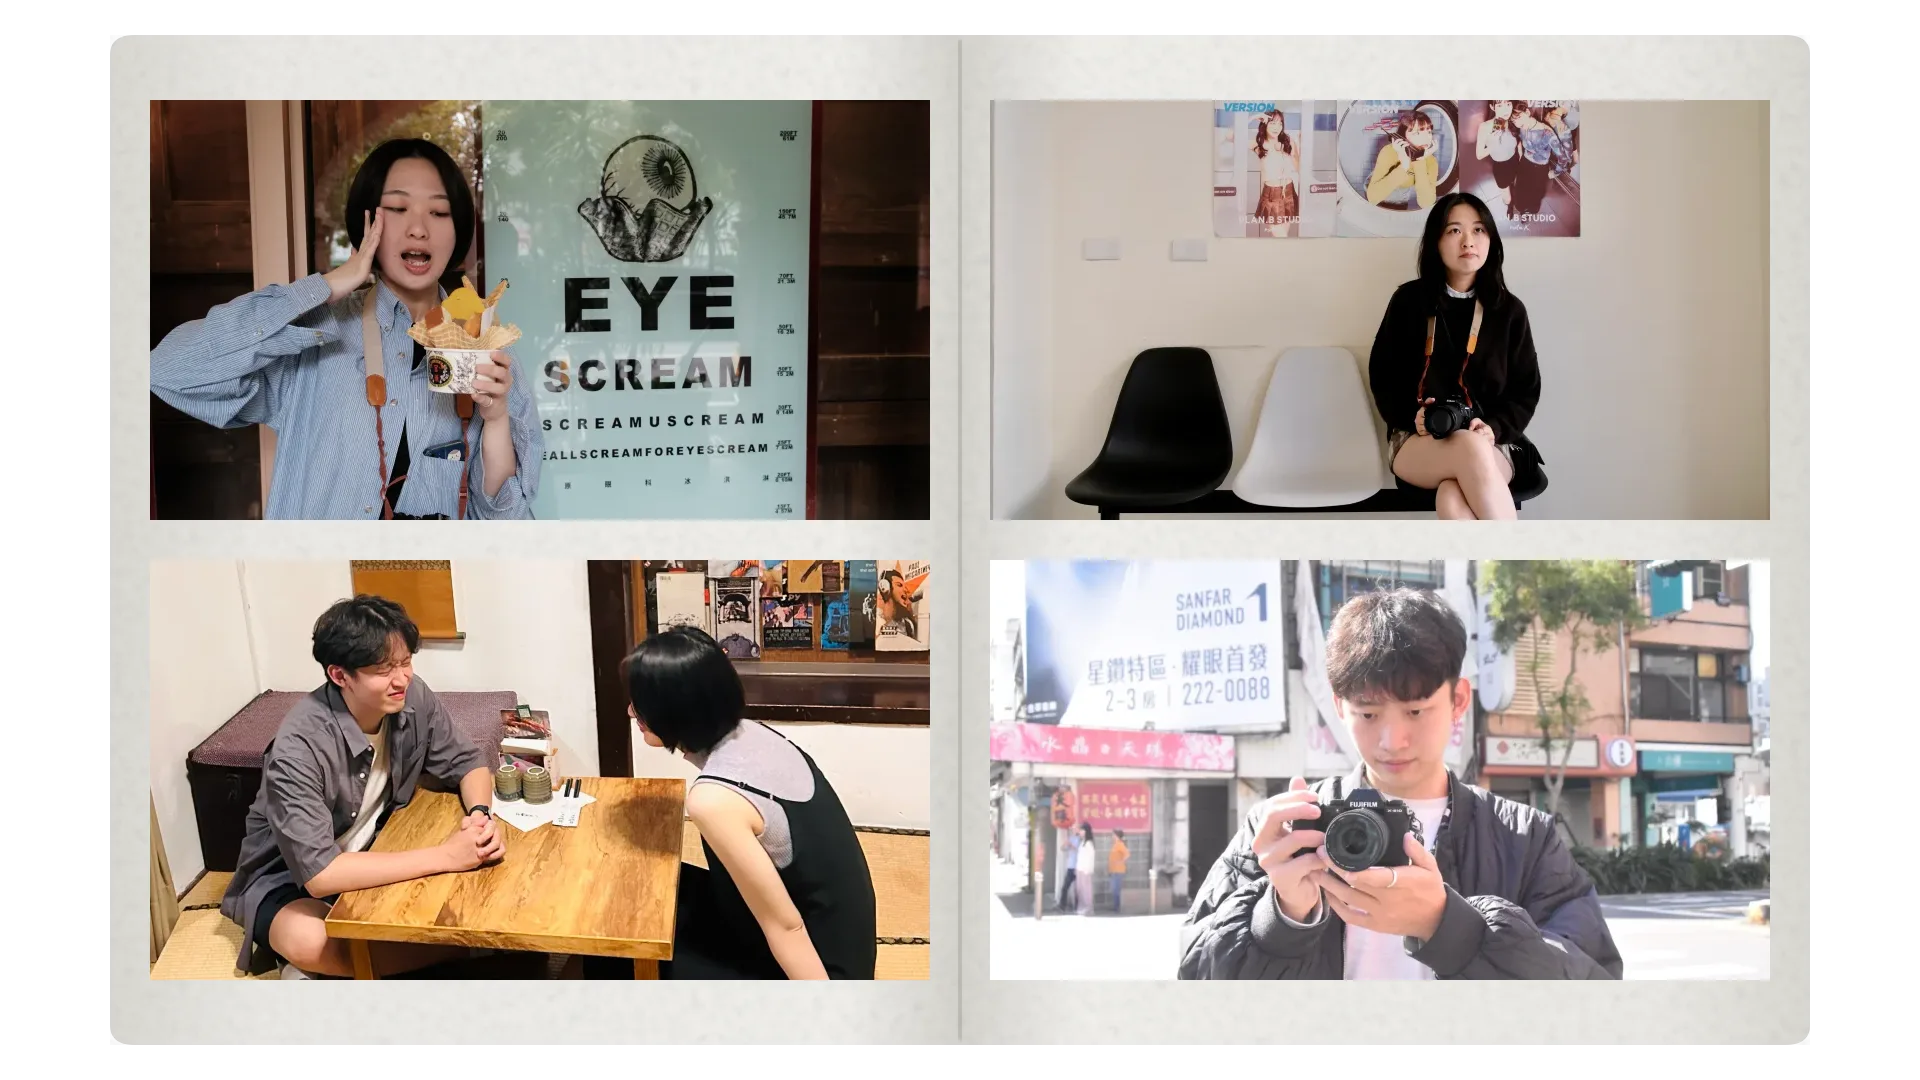
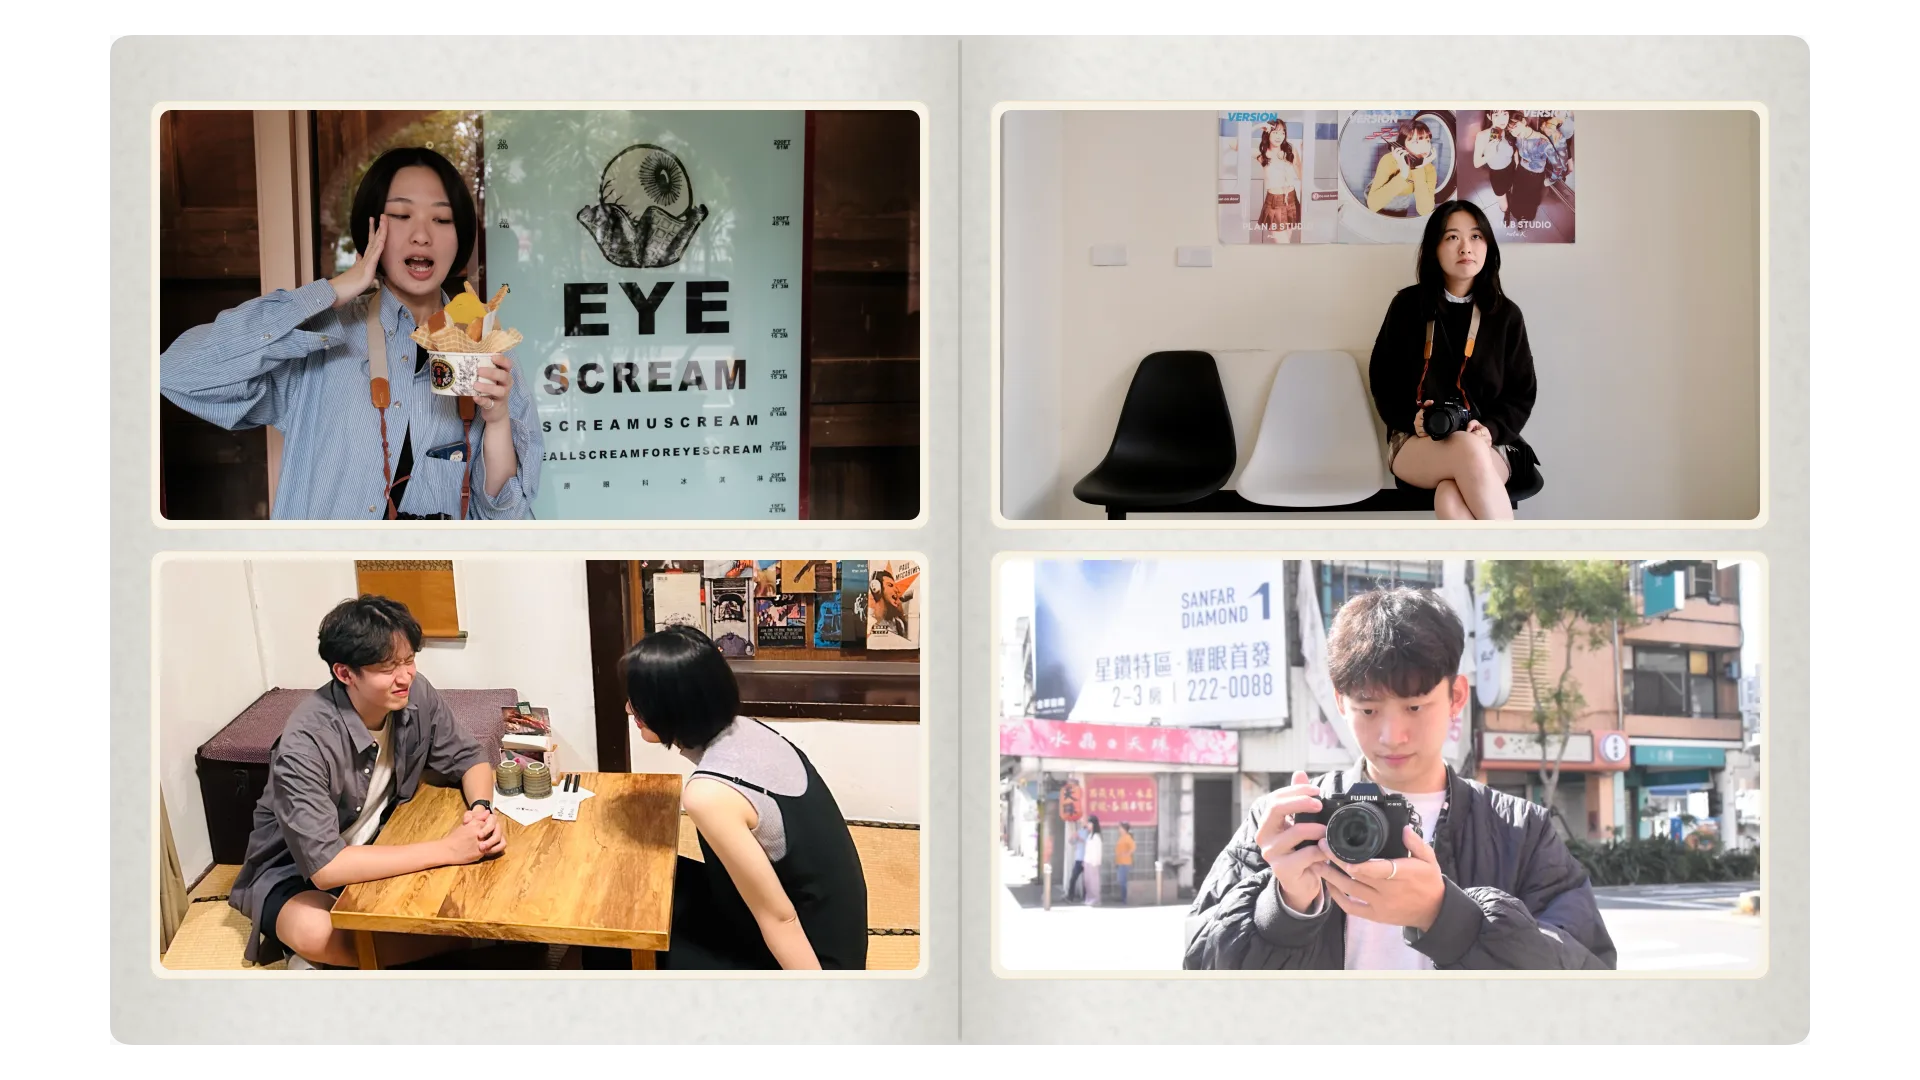
feat(photo-book): add slim cream print borders
Render each photo with a tight rounded cream edge and keep collage slots evenly sized.

diff --git a/scripts/generate-photo-book-assets.ts b/scripts/generate-photo-book-assets.ts
@@ -29,13 +29,13 @@ const layouts: Record<PhotoBookTemplate, Slot[]> = {
 		{ left: 150, top: 100, width: 780, height: 880 },
 		{ left: 990, top: 100, width: 370, height: 430 },
 		{ left: 1400, top: 100, width: 370, height: 430 },
-		{ left: 990, top: 570, width: 780, height: 410 }
+		{ left: 990, top: 550, width: 780, height: 430 }
 	],
 	balanced: [
-		{ left: 150, top: 100, width: 780, height: 420 },
-		{ left: 150, top: 560, width: 780, height: 420 },
-		{ left: 990, top: 100, width: 780, height: 420 },
-		{ left: 990, top: 560, width: 780, height: 420 }
+		{ left: 150, top: 100, width: 780, height: 430 },
+		{ left: 150, top: 550, width: 780, height: 430 },
+		{ left: 990, top: 100, width: 780, height: 430 },
+		{ left: 990, top: 550, width: 780, height: 430 }
 	],
 	single: [{ left: 150, top: 100, width: 1620, height: 880, fit: 'contain' }],
 	pair: [
@@ -44,11 +44,91 @@ const layouts: Record<PhotoBookTemplate, Slot[]> = {
 	],
 	trio: [
 		{ left: 150, top: 100, width: 780, height: 880 },
-		{ left: 990, top: 100, width: 780, height: 420 },
-		{ left: 990, top: 560, width: 780, height: 420 }
+		{ left: 990, top: 100, width: 780, height: 430 },
+		{ left: 990, top: 550, width: 780, height: 430 }
 	],
 	'final-portrait': [{ left: 150, top: 100, width: 1620, height: 880, fit: 'contain' }]
 };
+
+// ~4px on the 700px homepage book (1920 canvas).
+const photoCornerRadius = 11;
+const photoBorder = 10;
+
+function containedSize(
+	sourceWidth: number,
+	sourceHeight: number,
+	slotWidth: number,
+	slotHeight: number
+) {
+	const scale = Math.min(slotWidth / sourceWidth, slotHeight / sourceHeight);
+	return {
+		width: Math.max(1, Math.round(sourceWidth * scale)),
+		height: Math.max(1, Math.round(sourceHeight * scale))
+	};
+}
+
+function svgBuffer(markup: string) {
+	return Buffer.from(markup);
+}
+
+function roundedRectMask(width: number, height: number, radius: number) {
+	const safeRadius = Math.min(radius, Math.floor(Math.min(width, height) / 2));
+	return svgBuffer(
+		`<svg width="${width}" height="${height}" xmlns="http://www.w3.org/2000/svg"><rect width="${width}" height="${height}" rx="${safeRadius}" ry="${safeRadius}"/></svg>`
+	);
+}
+
+async function renderPhotoBuffer(sourcePath: string, width: number, height: number) {
+	return sharp(sourcePath)
+		.rotate()
+		.resize(width, height, { fit: 'cover', position: 'centre' })
+		.ensureAlpha()
+		.composite([{ input: roundedRectMask(width, height, photoCornerRadius), blend: 'dest-in' }])
+		.png()
+		.toBuffer();
+}
+
+async function mountPrint(photo: Buffer, photoWidth: number, photoHeight: number) {
+	const frameWidth = photoWidth + photoBorder * 2;
+	const frameHeight = photoHeight + photoBorder * 2;
+	const frameRadius = photoCornerRadius + 3;
+
+	const mat = svgBuffer(`
+		<svg width="${frameWidth}" height="${frameHeight}" xmlns="http://www.w3.org/2000/svg">
+			<rect width="${frameWidth}" height="${frameHeight}" rx="${frameRadius}" fill="#f7f2e6"/>
+			<rect x="0.75" y="0.75" width="${frameWidth - 1.5}" height="${frameHeight - 1.5}" rx="${frameRadius - 0.5}" fill="none" stroke="#e4d8c0" stroke-width="1.2"/>
+		</svg>
+	`);
+
+	return sharp(mat)
+		.composite([{ input: photo, left: photoBorder, top: photoBorder }])
+		.png()
+		.toBuffer();
+}
+
+async function renderPhoto(source: string, slot: Slot) {
+	const sourcePath = path.join(staticDirectory, source.replace(/^\//, ''));
+	await fs.access(sourcePath);
+
+	const metadata = await sharp(sourcePath).rotate().metadata();
+	const fit = slot.fit ?? 'cover';
+	const maxWidth = slot.width - photoBorder * 2;
+	const maxHeight = slot.height - photoBorder * 2;
+	const sourceWidth = metadata.width ?? maxWidth;
+	const sourceHeight = metadata.height ?? maxHeight;
+	const size =
+		fit === 'contain'
+			? containedSize(sourceWidth, sourceHeight, maxWidth, maxHeight)
+			: { width: maxWidth, height: maxHeight };
+
+	const photo = await renderPhotoBuffer(sourcePath, size.width, size.height);
+	const print = await mountPrint(photo, size.width, size.height);
+	return {
+		input: print,
+		left: slot.left + Math.round((slot.width - size.width - photoBorder * 2) / 2),
+		top: slot.top + Math.round((slot.height - size.height - photoBorder * 2) / 2)
+	};
+}
 
 const paper = Buffer.from(`
 	<svg width="${PHOTO_BOOK_WIDTH}" height="${PHOTO_BOOK_HEIGHT}" viewBox="0 0 ${PHOTO_BOOK_WIDTH} ${PHOTO_BOOK_HEIGHT}" xmlns="http://www.w3.org/2000/svg">
@@ -103,24 +183,7 @@ const flatPaper = Buffer.from(`
 async function renderSpread(template: PhotoBookTemplate, sources: string[]) {
 	const slots = layouts[template];
 	const photos = await Promise.all(
-		sources.map(async (source, index) => {
-			const sourcePath = path.join(staticDirectory, source.replace(/^\//, ''));
-			await fs.access(sourcePath);
-			return {
-				input: await sharp(sourcePath)
-					.rotate()
-					.resize(slots[index].width, slots[index].height, {
-						fit: slots[index].fit ?? 'cover',
-						position: 'centre',
-						// Transparent padding lets the generated paper texture show around contained photos.
-						background: { r: 0, g: 0, b: 0, alpha: 0 }
-					})
-					.webp({ quality: 84 })
-					.toBuffer(),
-				left: slots[index].left,
-				top: slots[index].top
-			};
-		})
+		sources.map((source, index) => renderPhoto(source, slots[index]))
 	);
 
 	return sharp({
